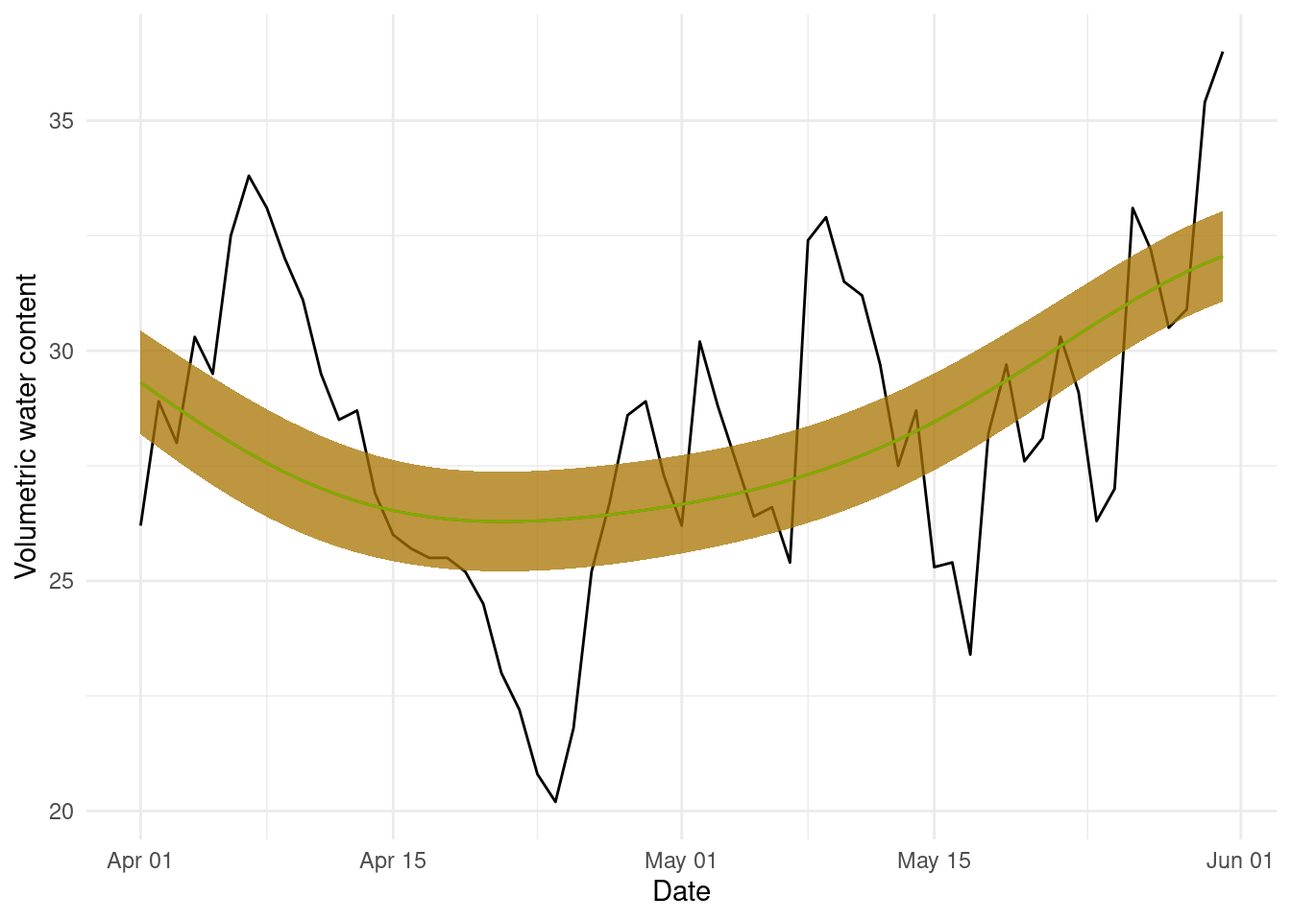
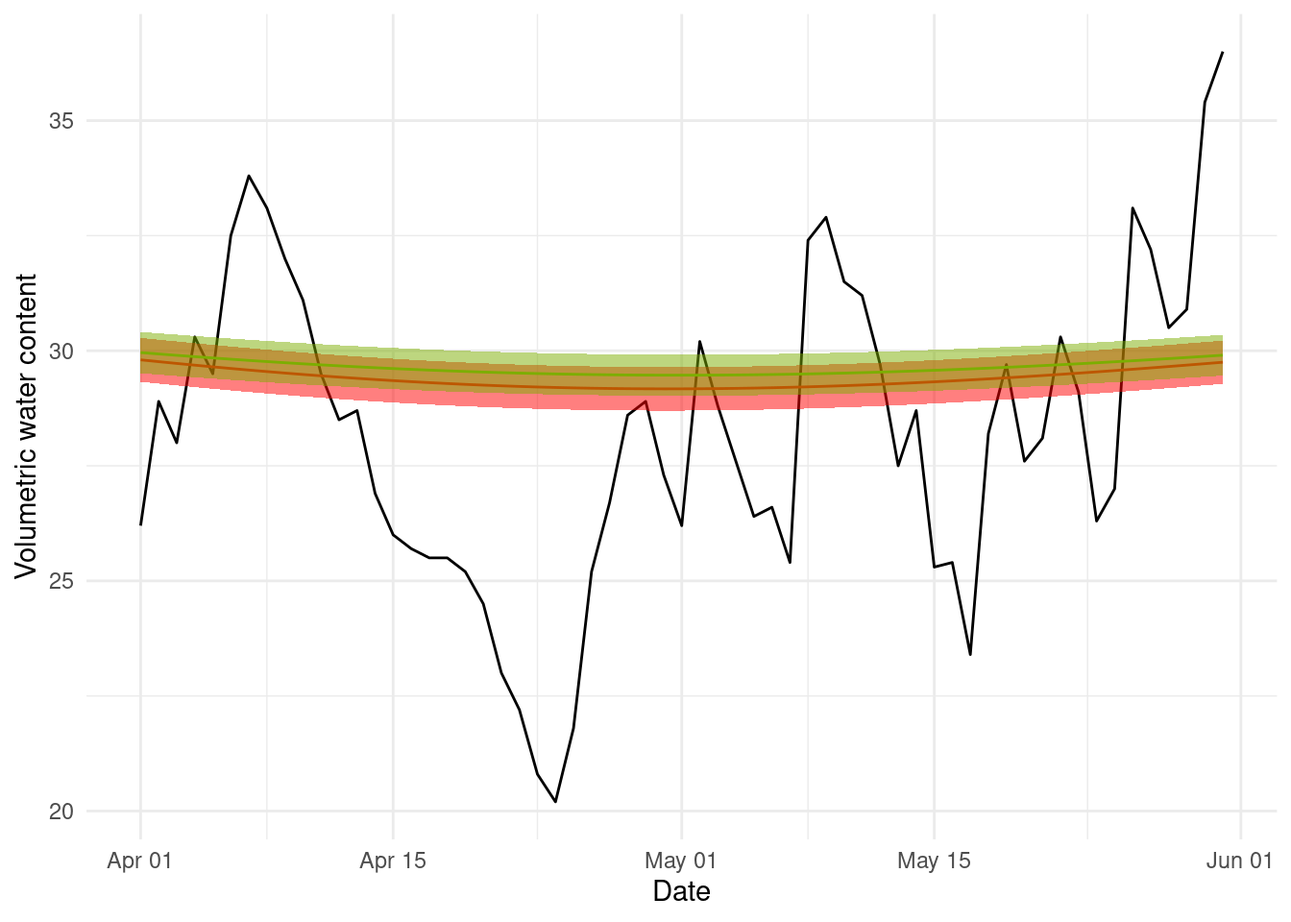
Built site for gh-pages

Changed region(s): [[0.0938, 0.2188, 0.9688, 0.625]]

diff --git a/articles/ncv_timeseries.html b/articles/ncv_timeseries.html
@@ -257,6 +257,7 @@ window.Quarto = {
   <li><a href="#short-term-forward-prediction" id="toc-short-term-forward-prediction" class="nav-link" data-scroll-target="#short-term-forward-prediction">Short-term, forward prediction</a></li>
   <li><a href="#what-about-restricting-the-prediction-neighbourhood" id="toc-what-about-restricting-the-prediction-neighbourhood" class="nav-link" data-scroll-target="#what-about-restricting-the-prediction-neighbourhood">What about restricting the prediction neighbourhood?</a></li>
   <li><a href="#what-does-cross-validation-do" id="toc-what-does-cross-validation-do" class="nav-link" data-scroll-target="#what-does-cross-validation-do">What does cross-validation do?</a></li>
+  <li><a href="#addenda" id="toc-addenda" class="nav-link" data-scroll-target="#addenda">Addenda</a></li>
   </ul>
 </nav>
     </div>
@@ -539,7 +540,7 @@ R-sq.(adj) =  0.338
 <div class="sourceCode cell-code" id="cb18"><pre class="sourceCode r code-with-copy"><code class="sourceCode r"><span id="cb18-1"><a href="#cb18-1" aria-hidden="true" tabindex="-1"></a><span class="co"># install mgcvUtils</span></span>
 <span id="cb18-2"><a href="#cb18-2" aria-hidden="true" tabindex="-1"></a>devtools<span class="sc">::</span><span class="fu">install_github</span>(<span class="st">"dill/mgcvUtils"</span>)</span></code><button title="Copy to Clipboard" class="code-copy-button"><i class="bi"></i></button></pre></div>
 <div class="cell-output cell-output-stderr">
-<pre><code>Skipping install of 'mgcvUtils' from a github remote, the SHA1 (c36c58ac) has not changed since last install.
+<pre><code>Skipping install of 'mgcvUtils' from a github remote, the SHA1 (591e49eb) has not changed since last install.
   Use `force = TRUE` to force installation</code></pre>
 </div>
 <div class="sourceCode cell-code" id="cb20"><pre class="sourceCode r code-with-copy"><code class="sourceCode r"><span id="cb20-1"><a href="#cb20-1" aria-hidden="true" tabindex="-1"></a><span class="fu">library</span>(mgcvUtils)</span>
@@ -582,11 +583,11 @@ R-sq.(adj) =  0.338
 <p>The big question, then, is “what does <span class="math inline">\(\alpha(k)\)</span> look like for my data”?</p>
 <p>Let’s start by using the autocorrelogram as a guide, and let’s also be a bit pessimistic and say that the neighbourhood goes out to lag 40 around each point (20 in each direction).</p>
 <p>A reminder from the documentation:</p>
-<pre><code>`k` is the vector of indices to be dropped for each neighbourhood and `m`
-gives the end of each neighbourhood. So `nei$k[(nei$m[j-1]+1):nei$m[j]]`
-gives the points dropped for the neighbourhood `j`. `i` is the vector of
-indices of points to predict, with corresponding endpoints `mi`. So
-`nei$i[(nei$mi[j-1]+1):nei$mi[j]]` indexes the points to predict for
+<pre><code>'a' is the vector of indices to be dropped for each neighbourhood and 'ma'
+gives the end of each neighbourhood. So 'nei$a[(nei$ma[j-1]+1):nei$ma[j]]'
+gives the points dropped for the neighbourhood 'j'. 'd' is the vector of
+indices of points to predict, with corresponding endpoints 'md'. So
+'nei$d[(nei$md[j-1]+1):nei$md[j]]' indexes the points to predict for
 neighbourhood j.</code></pre>
 <p>We’re going to create a moving-window-type approach, for the 20 observations either side of each datum. In the literature, this is often referred to as “blocked CV” <span class="citation" data-cites="liuUsingCrossvalidationMethods2024 snijdersCrossValidationPredictorEvaluation1988">(<a href="#ref-liuUsingCrossvalidationMethods2024" role="doc-biblioref">Liu and Zhou, 2024</a>; <a href="#ref-snijdersCrossValidationPredictorEvaluation1988" role="doc-biblioref">Snijders, 1988</a>)</span>. We can do that relatively easily (though maybe somewhat cryptically) using the below code.</p>
 <div class="cell">
@@ -594,10 +595,10 @@ neighbourhood j.</code></pre>
 <span id="cb24-2"><a href="#cb24-2" aria-hidden="true" tabindex="-1"></a>start <span class="ot">&lt;-</span> <span class="fu">pmax</span>(<span class="dv">1</span>, (<span class="dv">1</span><span class="sc">:</span><span class="dv">365</span>)<span class="sc">-</span><span class="dv">20</span>)</span>
 <span id="cb24-3"><a href="#cb24-3" aria-hidden="true" tabindex="-1"></a>end <span class="ot">&lt;-</span> <span class="fu">pmin</span>(<span class="dv">365</span>, (<span class="dv">0</span><span class="sc">:</span><span class="dv">364</span>)<span class="sc">+</span><span class="dv">20</span>)</span>
 <span id="cb24-4"><a href="#cb24-4" aria-hidden="true" tabindex="-1"></a>nt <span class="ot">&lt;-</span> <span class="fu">lapply</span>(<span class="dv">1</span><span class="sc">:</span><span class="dv">365</span>, \(x) start[x]<span class="sc">:</span>end[x])</span>
-<span id="cb24-5"><a href="#cb24-5" aria-hidden="true" tabindex="-1"></a>nei<span class="sc">$</span>k <span class="ot">&lt;-</span> <span class="fu">unlist</span>(nt)</span>
-<span id="cb24-6"><a href="#cb24-6" aria-hidden="true" tabindex="-1"></a>nei<span class="sc">$</span>m <span class="ot">&lt;-</span> <span class="fu">cumsum</span>(<span class="fu">lapply</span>(nt, length))</span>
-<span id="cb24-7"><a href="#cb24-7" aria-hidden="true" tabindex="-1"></a>nei<span class="sc">$</span>i <span class="ot">&lt;-</span> nei<span class="sc">$</span>k</span>
-<span id="cb24-8"><a href="#cb24-8" aria-hidden="true" tabindex="-1"></a>nei<span class="sc">$</span>mi <span class="ot">&lt;-</span> nei<span class="sc">$</span>m</span></code><button title="Copy to Clipboard" class="code-copy-button"><i class="bi"></i></button></pre></div>
+<span id="cb24-5"><a href="#cb24-5" aria-hidden="true" tabindex="-1"></a>nei<span class="sc">$</span>a <span class="ot">&lt;-</span> <span class="fu">unlist</span>(nt)</span>
+<span id="cb24-6"><a href="#cb24-6" aria-hidden="true" tabindex="-1"></a>nei<span class="sc">$</span>ma <span class="ot">&lt;-</span> <span class="fu">cumsum</span>(<span class="fu">lapply</span>(nt, length))</span>
+<span id="cb24-7"><a href="#cb24-7" aria-hidden="true" tabindex="-1"></a>nei<span class="sc">$</span>d <span class="ot">&lt;-</span> nei<span class="sc">$</span>a</span>
+<span id="cb24-8"><a href="#cb24-8" aria-hidden="true" tabindex="-1"></a>nei<span class="sc">$</span>md <span class="ot">&lt;-</span> nei<span class="sc">$</span>ma</span></code><button title="Copy to Clipboard" class="code-copy-button"><i class="bi"></i></button></pre></div>
 </div>
 <p>One issue with setting these neighbourhoods up is that we aren’t 100% sure whether the computer is doing what we want. I made a wee tool to visualise this for time series (at least) to check what the cross-validation structure you created looks right. You can find that as part of the <code>mgcvUtils</code> package <a href="https://github.com/dill/mgcvUtils">on github here</a>. We can then pass the neighbourhood structure to it and see what it produces:</p>
 <div class="cell">
@@ -625,18 +626,18 @@ COSMOS_VWC ~ s(ndate, k = 20)
 
 Parametric coefficients:
             Estimate Std. Error t value Pr(&gt;|t|)    
-(Intercept)  32.2112     0.1278     252   &lt;2e-16 ***
+(Intercept)  32.2112     0.1442   223.4   &lt;2e-16 ***
 ---
 Signif. codes:  0 '***' 0.001 '**' 0.01 '*' 0.05 '.' 0.1 ' ' 1
 
 Approximate significance of smooth terms:
-           edf Ref.df     F p-value    
-s(ndate) 17.47  18.69 20.95  &lt;2e-16 ***
+           edf Ref.df    F p-value    
+s(ndate) 3.436  4.291 44.8  &lt;2e-16 ***
 ---
 Signif. codes:  0 '***' 0.001 '**' 0.01 '*' 0.05 '.' 0.1 ' ' 1
 
-R-sq.(adj) =  0.525   Deviance explained = 54.8%
-NCV = 2181.3  Scale est. = 5.6974    n = 365</code></pre>
+R-sq.(adj) =  0.367   Deviance explained = 37.3%
+NCV = 1.3349e+05  Scale est. = 7.5862    n = 365</code></pre>
 </div>
 <div class="sourceCode cell-code" id="cb28"><pre class="sourceCode r code-with-copy"><code class="sourceCode r"><span id="cb28-1"><a href="#cb28-1" aria-hidden="true" tabindex="-1"></a>bal_2019 <span class="ot">&lt;-</span> <span class="fu">pred_with_ci</span>(b2, bal_2019,</span>
 <span id="cb28-2"><a href="#cb28-2" aria-hidden="true" tabindex="-1"></a>                         <span class="at">pred_label=</span><span class="st">"pred_b2"</span>, <span class="at">ci_label=</span><span class="st">"pred_b2"</span>)</span>
@@ -709,24 +710,24 @@ returning "UTC".</code></pre>
 <div class="sourceCode cell-code" id="cb33"><pre class="sourceCode r code-with-copy"><code class="sourceCode r"><span id="cb33-1"><a href="#cb33-1" aria-hidden="true" tabindex="-1"></a>mdays <span class="ot">&lt;-</span> <span class="fu">month</span>(<span class="fu">ymd</span>(mdays))</span>
 <span id="cb33-2"><a href="#cb33-2" aria-hidden="true" tabindex="-1"></a></span>
 <span id="cb33-3"><a href="#cb33-3" aria-hidden="true" tabindex="-1"></a>nei <span class="ot">&lt;-</span> <span class="fu">list</span>()</span>
-<span id="cb33-4"><a href="#cb33-4" aria-hidden="true" tabindex="-1"></a>nei<span class="sc">$</span>k <span class="ot">&lt;-</span> <span class="fu">c</span>()</span>
-<span id="cb33-5"><a href="#cb33-5" aria-hidden="true" tabindex="-1"></a>nei<span class="sc">$</span>m <span class="ot">&lt;-</span> <span class="fu">c</span>()</span>
+<span id="cb33-4"><a href="#cb33-4" aria-hidden="true" tabindex="-1"></a>nei<span class="sc">$</span>a <span class="ot">&lt;-</span> <span class="fu">c</span>()</span>
+<span id="cb33-5"><a href="#cb33-5" aria-hidden="true" tabindex="-1"></a>nei<span class="sc">$</span>ma <span class="ot">&lt;-</span> <span class="fu">c</span>()</span>
 <span id="cb33-6"><a href="#cb33-6" aria-hidden="true" tabindex="-1"></a></span>
 <span id="cb33-7"><a href="#cb33-7" aria-hidden="true" tabindex="-1"></a><span class="co"># let's write this as a for loop because it's easy to think about</span></span>
 <span id="cb33-8"><a href="#cb33-8" aria-hidden="true" tabindex="-1"></a><span class="cf">for</span>(i <span class="cf">in</span> <span class="dv">1</span><span class="sc">:</span><span class="dv">11</span>){</span>
 <span id="cb33-9"><a href="#cb33-9" aria-hidden="true" tabindex="-1"></a>  <span class="co"># drop days after in this month</span></span>
 <span id="cb33-10"><a href="#cb33-10" aria-hidden="true" tabindex="-1"></a>  iind <span class="ot">&lt;-</span> <span class="fu">which</span>(mdays <span class="sc">&gt;</span> i)</span>
 <span id="cb33-11"><a href="#cb33-11" aria-hidden="true" tabindex="-1"></a>  <span class="co"># drop</span></span>
-<span id="cb33-12"><a href="#cb33-12" aria-hidden="true" tabindex="-1"></a>  nei<span class="sc">$</span>k <span class="ot">&lt;-</span> <span class="fu">c</span>(nei<span class="sc">$</span>k, iind)</span>
-<span id="cb33-13"><a href="#cb33-13" aria-hidden="true" tabindex="-1"></a>  nei<span class="sc">$</span>m <span class="ot">&lt;-</span> <span class="fu">c</span>(nei<span class="sc">$</span>m, <span class="fu">length</span>(iind))</span>
+<span id="cb33-12"><a href="#cb33-12" aria-hidden="true" tabindex="-1"></a>  nei<span class="sc">$</span>a <span class="ot">&lt;-</span> <span class="fu">c</span>(nei<span class="sc">$</span>a, iind)</span>
+<span id="cb33-13"><a href="#cb33-13" aria-hidden="true" tabindex="-1"></a>  nei<span class="sc">$</span>ma<span class="ot">&lt;-</span> <span class="fu">c</span>(nei<span class="sc">$</span>ma, <span class="fu">length</span>(iind))</span>
 <span id="cb33-14"><a href="#cb33-14" aria-hidden="true" tabindex="-1"></a></span>
 <span id="cb33-15"><a href="#cb33-15" aria-hidden="true" tabindex="-1"></a>  <span class="co"># want to predict forward 1 month</span></span>
 <span id="cb33-16"><a href="#cb33-16" aria-hidden="true" tabindex="-1"></a>  iind <span class="ot">&lt;-</span> <span class="fu">which</span>(mdays <span class="sc">==</span> (i<span class="sc">+</span><span class="dv">1</span>))</span>
-<span id="cb33-17"><a href="#cb33-17" aria-hidden="true" tabindex="-1"></a>  nei<span class="sc">$</span>i <span class="ot">&lt;-</span> <span class="fu">c</span>(nei<span class="sc">$</span>i, iind)</span>
-<span id="cb33-18"><a href="#cb33-18" aria-hidden="true" tabindex="-1"></a>  nei<span class="sc">$</span>mi <span class="ot">&lt;-</span> <span class="fu">c</span>(nei<span class="sc">$</span>mi, <span class="fu">length</span>(iind))</span>
+<span id="cb33-17"><a href="#cb33-17" aria-hidden="true" tabindex="-1"></a>  nei<span class="sc">$</span>d <span class="ot">&lt;-</span> <span class="fu">c</span>(nei<span class="sc">$</span>d, iind)</span>
+<span id="cb33-18"><a href="#cb33-18" aria-hidden="true" tabindex="-1"></a>  nei<span class="sc">$</span>md <span class="ot">&lt;-</span> <span class="fu">c</span>(nei<span class="sc">$</span>md, <span class="fu">length</span>(iind))</span>
 <span id="cb33-19"><a href="#cb33-19" aria-hidden="true" tabindex="-1"></a>}</span>
-<span id="cb33-20"><a href="#cb33-20" aria-hidden="true" tabindex="-1"></a>nei<span class="sc">$</span>m <span class="ot">&lt;-</span> <span class="fu">cumsum</span>(nei<span class="sc">$</span>m)</span>
-<span id="cb33-21"><a href="#cb33-21" aria-hidden="true" tabindex="-1"></a>nei<span class="sc">$</span>mi <span class="ot">&lt;-</span> <span class="fu">cumsum</span>(nei<span class="sc">$</span>mi)</span></code><button title="Copy to Clipboard" class="code-copy-button"><i class="bi"></i></button></pre></div>
+<span id="cb33-20"><a href="#cb33-20" aria-hidden="true" tabindex="-1"></a>nei<span class="sc">$</span>ma <span class="ot">&lt;-</span> <span class="fu">cumsum</span>(nei<span class="sc">$</span>ma)</span>
+<span id="cb33-21"><a href="#cb33-21" aria-hidden="true" tabindex="-1"></a>nei<span class="sc">$</span>md <span class="ot">&lt;-</span> <span class="fu">cumsum</span>(nei<span class="sc">$</span>md)</span></code><button title="Copy to Clipboard" class="code-copy-button"><i class="bi"></i></button></pre></div>
 </div>
 <p>What does that look like?</p>
 <div class="cell">
@@ -754,18 +755,18 @@ COSMOS_VWC ~ s(ndate, k = 20)
 
 Parametric coefficients:
             Estimate Std. Error t value Pr(&gt;|t|)    
-(Intercept)  32.2112     0.1278     252   &lt;2e-16 ***
+(Intercept)  32.2112     0.1425   226.1   &lt;2e-16 ***
 ---
 Signif. codes:  0 '***' 0.001 '**' 0.01 '*' 0.05 '.' 0.1 ' ' 1
 
 Approximate significance of smooth terms:
            edf Ref.df     F p-value    
-s(ndate) 17.47  18.69 20.95  &lt;2e-16 ***
+s(ndate) 3.999  4.993 41.59  &lt;2e-16 ***
 ---
 Signif. codes:  0 '***' 0.001 '**' 0.01 '*' 0.05 '.' 0.1 ' ' 1
 
-R-sq.(adj) =  0.525   Deviance explained = 54.8%
-NCV = 2181.3  Scale est. = 5.6974    n = 365</code></pre>
+R-sq.(adj) =  0.382   Deviance explained = 38.9%
+NCV = 3855.2  Scale est. = 7.4073    n = 365</code></pre>
 </div>
 <div class="sourceCode cell-code" id="cb37"><pre class="sourceCode r code-with-copy"><code class="sourceCode r"><span id="cb37-1"><a href="#cb37-1" aria-hidden="true" tabindex="-1"></a>bal_2019 <span class="ot">&lt;-</span> <span class="fu">pred_with_ci</span>(b3, bal_2019,</span>
 <span id="cb37-2"><a href="#cb37-2" aria-hidden="true" tabindex="-1"></a>                         <span class="at">pred_label=</span><span class="st">"pred_b3"</span>, <span class="at">ci_label=</span><span class="st">"pred_b3"</span>)</span>
@@ -796,16 +797,16 @@ NCV = 2181.3  Scale est. = 5.6974    n = 365</code></pre>
 <div class="cell">
 <div class="sourceCode cell-code" id="cb38"><pre class="sourceCode r code-with-copy"><code class="sourceCode r"><span id="cb38-1"><a href="#cb38-1" aria-hidden="true" tabindex="-1"></a><span class="co"># construct this the other way around, we want to predict each point:</span></span>
 <span id="cb38-2"><a href="#cb38-2" aria-hidden="true" tabindex="-1"></a>nei <span class="ot">&lt;-</span> <span class="fu">list</span>()</span>
-<span id="cb38-3"><a href="#cb38-3" aria-hidden="true" tabindex="-1"></a>nei<span class="sc">$</span>i <span class="ot">&lt;-</span> <span class="dv">1</span><span class="sc">:</span><span class="dv">365</span> <span class="co">#partygirl</span></span>
-<span id="cb38-4"><a href="#cb38-4" aria-hidden="true" tabindex="-1"></a>nei<span class="sc">$</span>mi <span class="ot">&lt;-</span> <span class="dv">1</span><span class="sc">:</span><span class="fu">length</span>(start)</span>
+<span id="cb38-3"><a href="#cb38-3" aria-hidden="true" tabindex="-1"></a>nei<span class="sc">$</span>d <span class="ot">&lt;-</span> <span class="dv">1</span><span class="sc">:</span><span class="dv">365</span> <span class="co">#partygirl</span></span>
+<span id="cb38-4"><a href="#cb38-4" aria-hidden="true" tabindex="-1"></a>nei<span class="sc">$</span>md <span class="ot">&lt;-</span> <span class="dv">1</span><span class="sc">:</span><span class="fu">length</span>(start)</span>
 <span id="cb38-5"><a href="#cb38-5" aria-hidden="true" tabindex="-1"></a></span>
 <span id="cb38-6"><a href="#cb38-6" aria-hidden="true" tabindex="-1"></a><span class="co"># now take the 20 either side</span></span>
-<span id="cb38-7"><a href="#cb38-7" aria-hidden="true" tabindex="-1"></a>nt <span class="ot">&lt;-</span> <span class="fu">lapply</span>(nei<span class="sc">$</span>i, \(x){</span>
+<span id="cb38-7"><a href="#cb38-7" aria-hidden="true" tabindex="-1"></a>nt <span class="ot">&lt;-</span> <span class="fu">lapply</span>(nei<span class="sc">$</span>d, \(x){</span>
 <span id="cb38-8"><a href="#cb38-8" aria-hidden="true" tabindex="-1"></a>  <span class="fu">max</span>(<span class="fu">c</span>(<span class="dv">1</span>, x<span class="dv">-20</span>))<span class="sc">:</span><span class="fu">min</span>(<span class="fu">c</span>(<span class="dv">365</span>, x<span class="sc">+</span><span class="dv">20</span>))</span>
 <span id="cb38-9"><a href="#cb38-9" aria-hidden="true" tabindex="-1"></a>})</span>
 <span id="cb38-10"><a href="#cb38-10" aria-hidden="true" tabindex="-1"></a></span>
-<span id="cb38-11"><a href="#cb38-11" aria-hidden="true" tabindex="-1"></a>nei<span class="sc">$</span>k <span class="ot">&lt;-</span> <span class="fu">unlist</span>(nt)</span>
-<span id="cb38-12"><a href="#cb38-12" aria-hidden="true" tabindex="-1"></a>nei<span class="sc">$</span>m <span class="ot">&lt;-</span> <span class="fu">cumsum</span>(<span class="fu">lapply</span>(nt, length))</span>
+<span id="cb38-11"><a href="#cb38-11" aria-hidden="true" tabindex="-1"></a>nei<span class="sc">$</span>a <span class="ot">&lt;-</span> <span class="fu">unlist</span>(nt)</span>
+<span id="cb38-12"><a href="#cb38-12" aria-hidden="true" tabindex="-1"></a>nei<span class="sc">$</span>ma <span class="ot">&lt;-</span> <span class="fu">cumsum</span>(<span class="fu">lapply</span>(nt, length))</span>
 <span id="cb38-13"><a href="#cb38-13" aria-hidden="true" tabindex="-1"></a><span class="co"># let the set we're predicting to be just the datum in the middle of the</span></span>
 <span id="cb38-14"><a href="#cb38-14" aria-hidden="true" tabindex="-1"></a><span class="co"># training set</span></span>
 <span id="cb38-15"><a href="#cb38-15" aria-hidden="true" tabindex="-1"></a></span>
@@ -833,18 +834,18 @@ COSMOS_VWC ~ s(ndate, k = 20)
 
 Parametric coefficients:
             Estimate Std. Error t value Pr(&gt;|t|)    
-(Intercept)  32.2112     0.1278     252   &lt;2e-16 ***
+(Intercept)  32.2112     0.5371   59.97   &lt;2e-16 ***
 ---
 Signif. codes:  0 '***' 0.001 '**' 0.01 '*' 0.05 '.' 0.1 ' ' 1
 
 Approximate significance of smooth terms:
-           edf Ref.df     F p-value    
-s(ndate) 17.47  18.69 20.95  &lt;2e-16 ***
+           edf Ref.df     F  p-value    
+s(ndate) 3.166  3.955 7.041 2.46e-05 ***
 ---
 Signif. codes:  0 '***' 0.001 '**' 0.01 '*' 0.05 '.' 0.1 ' ' 1
 
-R-sq.(adj) =  0.525   Deviance explained = 54.8%
-NCV = 2181.3  Scale est. = 5.6974    n = 365</code></pre>
+R-sq.(adj) =  0.216   Deviance explained = 36.4%
+NCV = 3393.2  Scale est. = 7.6855    n = 365</code></pre>
 </div>
 <div class="sourceCode cell-code" id="cb41"><pre class="sourceCode r code-with-copy"><code class="sourceCode r"><span id="cb41-1"><a href="#cb41-1" aria-hidden="true" tabindex="-1"></a>bal_2019 <span class="ot">&lt;-</span> <span class="fu">pred_with_ci</span>(b4, bal_2019,</span>
 <span id="cb41-2"><a href="#cb41-2" aria-hidden="true" tabindex="-1"></a>                         <span class="at">pred_label=</span><span class="st">"pred_b4"</span>, <span class="at">ci_label=</span><span class="st">"pred_b4"</span>)</span>
@@ -899,6 +900,12 @@ NCV = 2181.3  Scale est. = 5.6974    n = 365</code></pre>
 <p>For the <code>b4</code>, the modification of <code>b2</code> where we only predict back to the middle value, we see a much wider confidence/credible band around the mean prediction. Again, thinking about this in terms of minimizing average prediction error helps us make sense of what’s happening here. For a larger prediction neighbourhood, some things come out in the wash better: we overfit somewhere but that underfits somewhere else, so the result for that fold isn’t as bad. When we predict only 1 point (and don’t include the autocorrelated data around it) we become more uncertain, since each of those differences between the fitted and observed values<a href="#fn5" class="footnote-ref" id="fnref5" role="doc-noteref"><sup>5</sup></a> are then considered alone, without the neighbours “helping” to average things out.</p>
 <p>Thinking about the “real” objective of NCV (average prediction error on unseen data) helps us understand what’s going on here.</p>
 <p>Hopefully this is a helpful lesson in thinking about how NCV works and how the schemes used to fit the model can give rather different answers.</p>
+</section>
+<section id="addenda" class="level1">
+<h1>Addenda</h1>
+<ul>
+<li>Thanks to Zachary Susswein for <a href="https://github.com/dill/calgary/issues/1">spotting a bug</a> regarding a <a href="https://cran.r-project.org/web/packages/mgcv/ChangeLog">change in the syntax</a> for <code>mgcv</code>. The <code>mgcvUtils</code> package has also been updated to take this into account.</li>
+</ul>
 
 
 

diff --git a/articles/ncv.html b/articles/ncv.html
@@ -392,23 +392,23 @@ NCV = 1618.9  Scale est. = 3.9025    n = 400</code></pre>
 <div class="sourceCode cell-code" id="cb9"><pre class="sourceCode r code-with-copy"><code class="sourceCode r"><span id="cb9-1"><a href="#cb9-1" aria-hidden="true" tabindex="-1"></a>nb <span class="ot">&lt;-</span> <span class="fu">list</span>()</span></code><button title="Copy to Clipboard" class="code-copy-button"><i class="bi"></i></button></pre></div>
 </div>
 <p>This object will contain our <span class="math inline">\(\alpha(k)\)</span> and <span class="math inline">\(\delta(k)\)</span> information (albeit in a slightly convoluted way).</p>
-<p>The leave-outs (<span class="math inline">\(\alpha(k)\)</span>’s) are in the <code>k</code> element of the list. This is a vector of data indices in such an order that each of our cross-validation blocks is contiguous. If our first block is size <code>b</code> then we can get the block indices via <code>k[1]:k[b]</code>.</p>
+<p>The leave-outs (<span class="math inline">\(\alpha(k)\)</span>’s) are in the <code>a</code> element of the list. This is a vector of data indices in such an order that each of our cross-validation blocks is contiguous. If our first block is size <code>b</code> then we can get the block indices via <code>a[1]:a[b]</code>.</p>
 <p>In our case we want the variable <code>x0</code> chopped into 4 equal-sized, contiguous blocks of length 100. We can do this by getting the order of <code>x0</code>:</p>
 <div class="cell">
-<div class="sourceCode cell-code" id="cb10"><pre class="sourceCode r code-with-copy"><code class="sourceCode r"><span id="cb10-1"><a href="#cb10-1" aria-hidden="true" tabindex="-1"></a>nb<span class="sc">$</span>k <span class="ot">&lt;-</span> <span class="fu">order</span>(dat<span class="sc">$</span>x0)</span></code><button title="Copy to Clipboard" class="code-copy-button"><i class="bi"></i></button></pre></div>
+<div class="sourceCode cell-code" id="cb10"><pre class="sourceCode r code-with-copy"><code class="sourceCode r"><span id="cb10-1"><a href="#cb10-1" aria-hidden="true" tabindex="-1"></a>nb<span class="sc">$</span>a <span class="ot">&lt;-</span> <span class="fu">order</span>(dat<span class="sc">$</span>x0)</span></code><button title="Copy to Clipboard" class="code-copy-button"><i class="bi"></i></button></pre></div>
 </div>
-<p>Next we need to set the <em>end points</em> of the blocks in the element <code>m</code>, which in our case will be 100, 200, 300 and 400:</p>
+<p>Next we need to set the <em>end points</em> of the blocks in the element <code>ma</code>, which in our case will be 100, 200, 300 and 400:</p>
 <div class="cell">
-<div class="sourceCode cell-code" id="cb11"><pre class="sourceCode r code-with-copy"><code class="sourceCode r"><span id="cb11-1"><a href="#cb11-1" aria-hidden="true" tabindex="-1"></a>nb<span class="sc">$</span>m <span class="ot">&lt;-</span> (<span class="dv">1</span><span class="sc">:</span><span class="dv">4</span>)<span class="sc">*</span><span class="dv">100</span></span></code><button title="Copy to Clipboard" class="code-copy-button"><i class="bi"></i></button></pre></div>
+<div class="sourceCode cell-code" id="cb11"><pre class="sourceCode r code-with-copy"><code class="sourceCode r"><span id="cb11-1"><a href="#cb11-1" aria-hidden="true" tabindex="-1"></a>nb<span class="sc">$</span>ma <span class="ot">&lt;-</span> (<span class="dv">1</span><span class="sc">:</span><span class="dv">4</span>)<span class="sc">*</span><span class="dv">100</span></span></code><button title="Copy to Clipboard" class="code-copy-button"><i class="bi"></i></button></pre></div>
 </div>
-<p>For the predictions (<span class="math inline">\(\delta(k)\)</span>’s) we have a similar structure, <code>k</code> is now <code>i</code> and <code>m</code> is now <code>mi</code> (these should be the same length).</p>
-<p>Here let’s try to predict only at the points we dropped each time. In that case <code>i == k</code>:</p>
+<p>For the predictions (<span class="math inline">\(\delta(k)\)</span>’s) we have a similar structure, <code>d</code> are the start points and <code>md</code> are the end points (these should be the same length).</p>
+<p>Here let’s try to predict only at the points we dropped each time. In that case <code>a == d</code>:</p>
 <div class="cell">
-<div class="sourceCode cell-code" id="cb12"><pre class="sourceCode r code-with-copy"><code class="sourceCode r"><span id="cb12-1"><a href="#cb12-1" aria-hidden="true" tabindex="-1"></a>nb<span class="sc">$</span>i <span class="ot">&lt;-</span> nb<span class="sc">$</span>k</span></code><button title="Copy to Clipboard" class="code-copy-button"><i class="bi"></i></button></pre></div>
+<div class="sourceCode cell-code" id="cb12"><pre class="sourceCode r code-with-copy"><code class="sourceCode r"><span id="cb12-1"><a href="#cb12-1" aria-hidden="true" tabindex="-1"></a>nb<span class="sc">$</span>a <span class="ot">&lt;-</span> nb<span class="sc">$</span>d</span></code><button title="Copy to Clipboard" class="code-copy-button"><i class="bi"></i></button></pre></div>
 </div>
-<p>and <code>mi == m</code></p>
+<p>and <code>md == ma</code></p>
 <div class="cell">
-<div class="sourceCode cell-code" id="cb13"><pre class="sourceCode r code-with-copy"><code class="sourceCode r"><span id="cb13-1"><a href="#cb13-1" aria-hidden="true" tabindex="-1"></a>nb<span class="sc">$</span>mi <span class="ot">&lt;-</span> nb<span class="sc">$</span>m</span></code><button title="Copy to Clipboard" class="code-copy-button"><i class="bi"></i></button></pre></div>
+<div class="sourceCode cell-code" id="cb13"><pre class="sourceCode r code-with-copy"><code class="sourceCode r"><span id="cb13-1"><a href="#cb13-1" aria-hidden="true" tabindex="-1"></a>nb<span class="sc">$</span>md <span class="ot">&lt;-</span> nb<span class="sc">$</span>ma</span></code><button title="Copy to Clipboard" class="code-copy-button"><i class="bi"></i></button></pre></div>
 </div>
 <p>We can now try to fit that by supplying <code>nb</code> as the <code>nei=</code> argument:</p>
 <div class="cell">
@@ -448,10 +448,10 @@ NCV = 1618.9  Scale est. = 3.9025    n = 400</code></pre>
 <span id="cb16-2"><a href="#cb16-2" aria-hidden="true" tabindex="-1"></a></span>
 <span id="cb16-3"><a href="#cb16-3" aria-hidden="true" tabindex="-1"></a>blerg <span class="ot">&lt;-</span> <span class="fu">lapply</span>(<span class="dv">1</span><span class="sc">:</span><span class="dv">4</span>, <span class="cf">function</span>(x){</span>
 <span id="cb16-4"><a href="#cb16-4" aria-hidden="true" tabindex="-1"></a>  <span class="fu">plot</span>(b2, <span class="at">select=</span>x, <span class="at">rug=</span><span class="cn">FALSE</span>)</span>
-<span id="cb16-5"><a href="#cb16-5" aria-hidden="true" tabindex="-1"></a>  <span class="fu">rug</span>(dat[[<span class="fu">paste0</span>(<span class="st">"x"</span>, x<span class="dv">-1</span>)]][nb<span class="sc">$</span>k[<span class="dv">1</span><span class="sc">:</span>nb<span class="sc">$</span>m[<span class="dv">1</span>]]], <span class="at">col=</span><span class="st">"red"</span>)</span>
-<span id="cb16-6"><a href="#cb16-6" aria-hidden="true" tabindex="-1"></a>  <span class="fu">rug</span>(dat[[<span class="fu">paste0</span>(<span class="st">"x"</span>, x<span class="dv">-1</span>)]][nb<span class="sc">$</span>k[(nb<span class="sc">$</span>m[<span class="dv">1</span>]<span class="sc">+</span><span class="dv">1</span>)<span class="sc">:</span>nb<span class="sc">$</span>m[<span class="dv">2</span>]]], <span class="at">col=</span><span class="st">"green"</span>)</span>
-<span id="cb16-7"><a href="#cb16-7" aria-hidden="true" tabindex="-1"></a>  <span class="fu">rug</span>(dat[[<span class="fu">paste0</span>(<span class="st">"x"</span>, x<span class="dv">-1</span>)]][nb<span class="sc">$</span>k[(nb<span class="sc">$</span>m[<span class="dv">2</span>]<span class="sc">+</span><span class="dv">1</span>)<span class="sc">:</span>nb<span class="sc">$</span>m[<span class="dv">3</span>]]], <span class="at">col=</span><span class="st">"blue"</span>)</span>
-<span id="cb16-8"><a href="#cb16-8" aria-hidden="true" tabindex="-1"></a>  <span class="fu">rug</span>(dat[[<span class="fu">paste0</span>(<span class="st">"x"</span>, x<span class="dv">-1</span>)]][nb<span class="sc">$</span>k[(nb<span class="sc">$</span>m[<span class="dv">3</span>]<span class="sc">+</span><span class="dv">1</span>)<span class="sc">:</span>nb<span class="sc">$</span>m[<span class="dv">4</span>]]], <span class="at">col=</span><span class="st">"pink"</span>)</span>
+<span id="cb16-5"><a href="#cb16-5" aria-hidden="true" tabindex="-1"></a>  <span class="fu">rug</span>(dat[[<span class="fu">paste0</span>(<span class="st">"x"</span>, x<span class="dv">-1</span>)]][nb<span class="sc">$</span>a[<span class="dv">1</span><span class="sc">:</span>nb<span class="sc">$</span>ma[<span class="dv">1</span>]]], <span class="at">col=</span><span class="st">"red"</span>)</span>
+<span id="cb16-6"><a href="#cb16-6" aria-hidden="true" tabindex="-1"></a>  <span class="fu">rug</span>(dat[[<span class="fu">paste0</span>(<span class="st">"x"</span>, x<span class="dv">-1</span>)]][nb<span class="sc">$</span>a[(nb<span class="sc">$</span>ma[<span class="dv">1</span>]<span class="sc">+</span><span class="dv">1</span>)<span class="sc">:</span>nb<span class="sc">$</span>ma[<span class="dv">2</span>]]], <span class="at">col=</span><span class="st">"green"</span>)</span>
+<span id="cb16-7"><a href="#cb16-7" aria-hidden="true" tabindex="-1"></a>  <span class="fu">rug</span>(dat[[<span class="fu">paste0</span>(<span class="st">"x"</span>, x<span class="dv">-1</span>)]][nb<span class="sc">$</span>a[(nb<span class="sc">$</span>ma[<span class="dv">2</span>]<span class="sc">+</span><span class="dv">1</span>)<span class="sc">:</span>nb<span class="sc">$</span>ma[<span class="dv">3</span>]]], <span class="at">col=</span><span class="st">"blue"</span>)</span>
+<span id="cb16-8"><a href="#cb16-8" aria-hidden="true" tabindex="-1"></a>  <span class="fu">rug</span>(dat[[<span class="fu">paste0</span>(<span class="st">"x"</span>, x<span class="dv">-1</span>)]][nb<span class="sc">$</span>a[(nb<span class="sc">$</span>ma[<span class="dv">3</span>]<span class="sc">+</span><span class="dv">1</span>)<span class="sc">:</span>nb<span class="sc">$</span>ma[<span class="dv">4</span>]]], <span class="at">col=</span><span class="st">"pink"</span>)</span>
 <span id="cb16-9"><a href="#cb16-9" aria-hidden="true" tabindex="-1"></a>})</span></code><button title="Copy to Clipboard" class="code-copy-button"><i class="bi"></i></button></pre></div>
 <div class="cell-output-display">
 <div>
